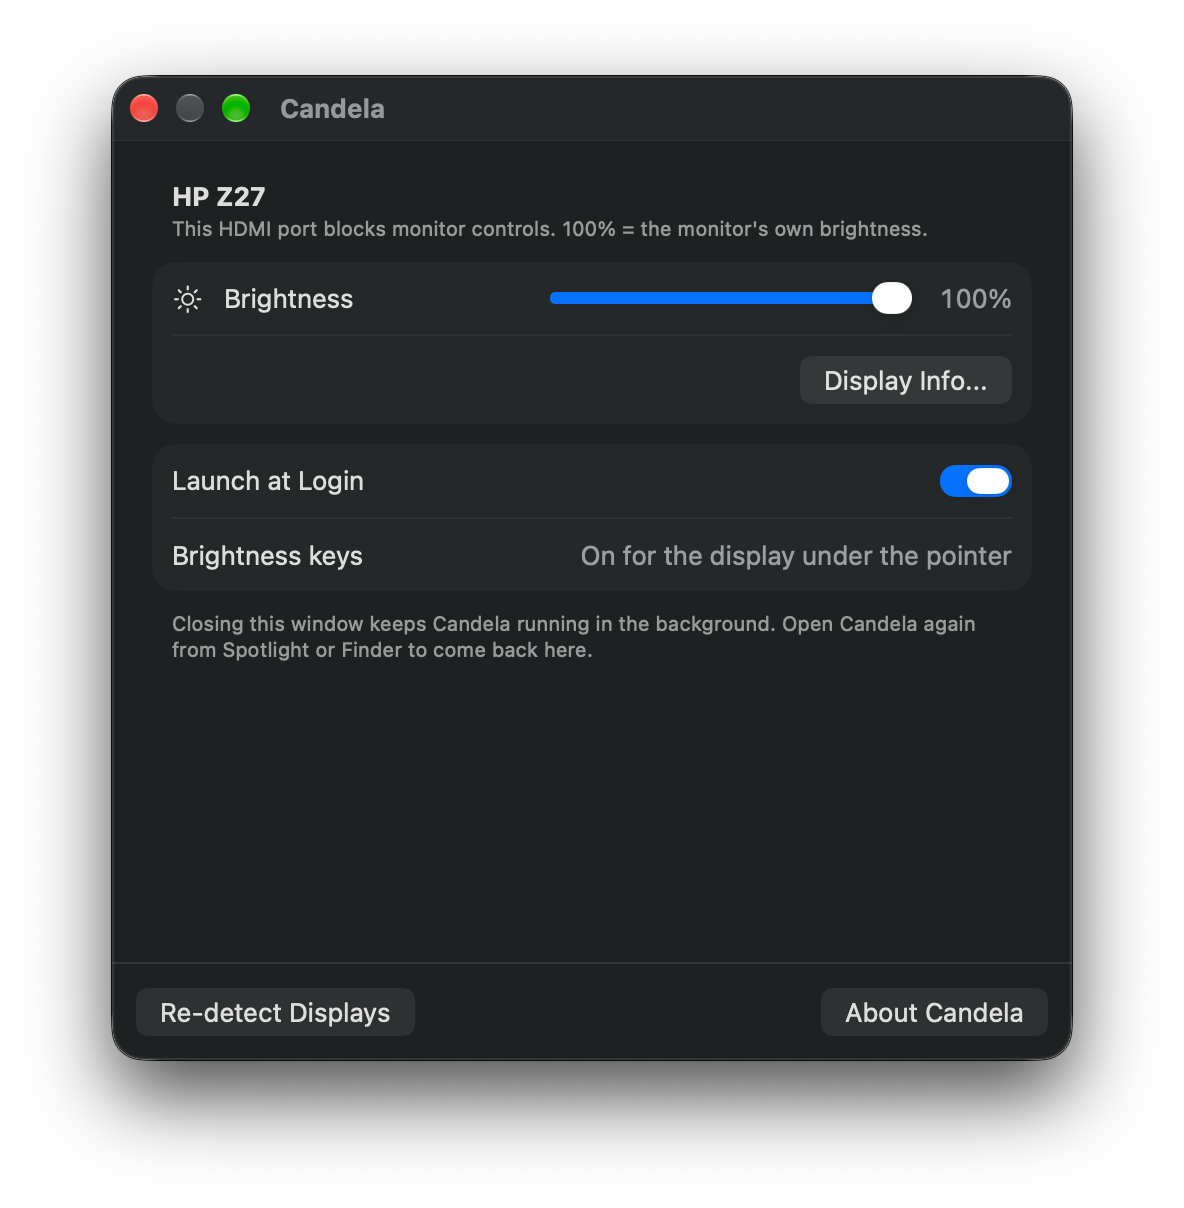
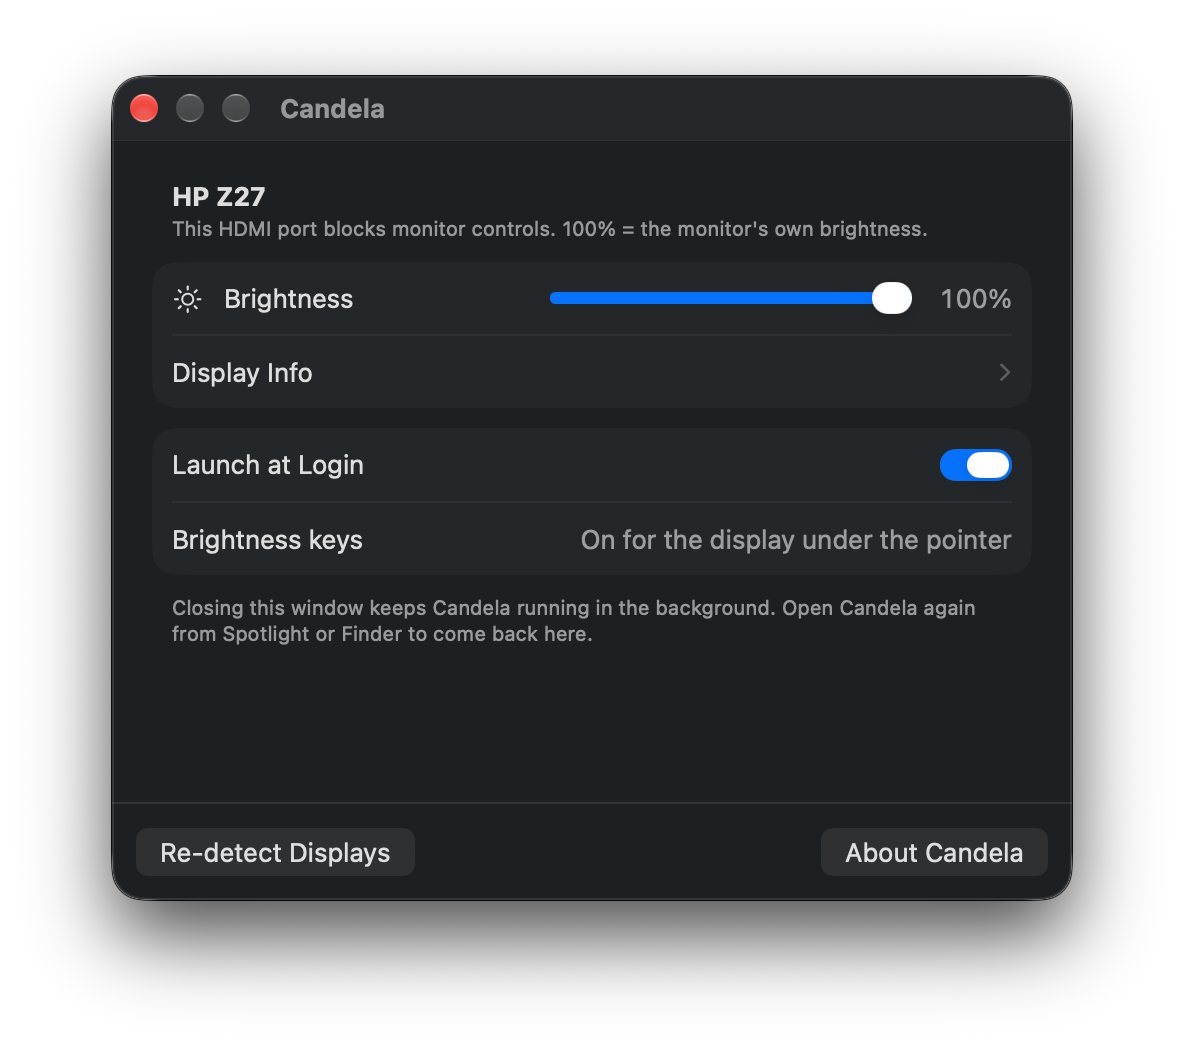
docs: update the window screenshot and add the Display Info page
Both are real screenshots of the current design. The monitor's serial
number is hidden in the Display Info one.

diff --git a/README.md b/README.md
@@ -29,6 +29,10 @@
 - **`candelactl`**, a command line tool for scripting and diagnostics.
 - Remembers settings per monitor. No network access, no analytics.
 
+<p align="center">
+  <img src="docs/images/display-info.png" width="460" alt="The Display Info page for an HP Z27, with a Back button in the footer">
+</p>
+
 ## Compatibility
 
 | Connection on an Apple Silicon Mac | What works |
